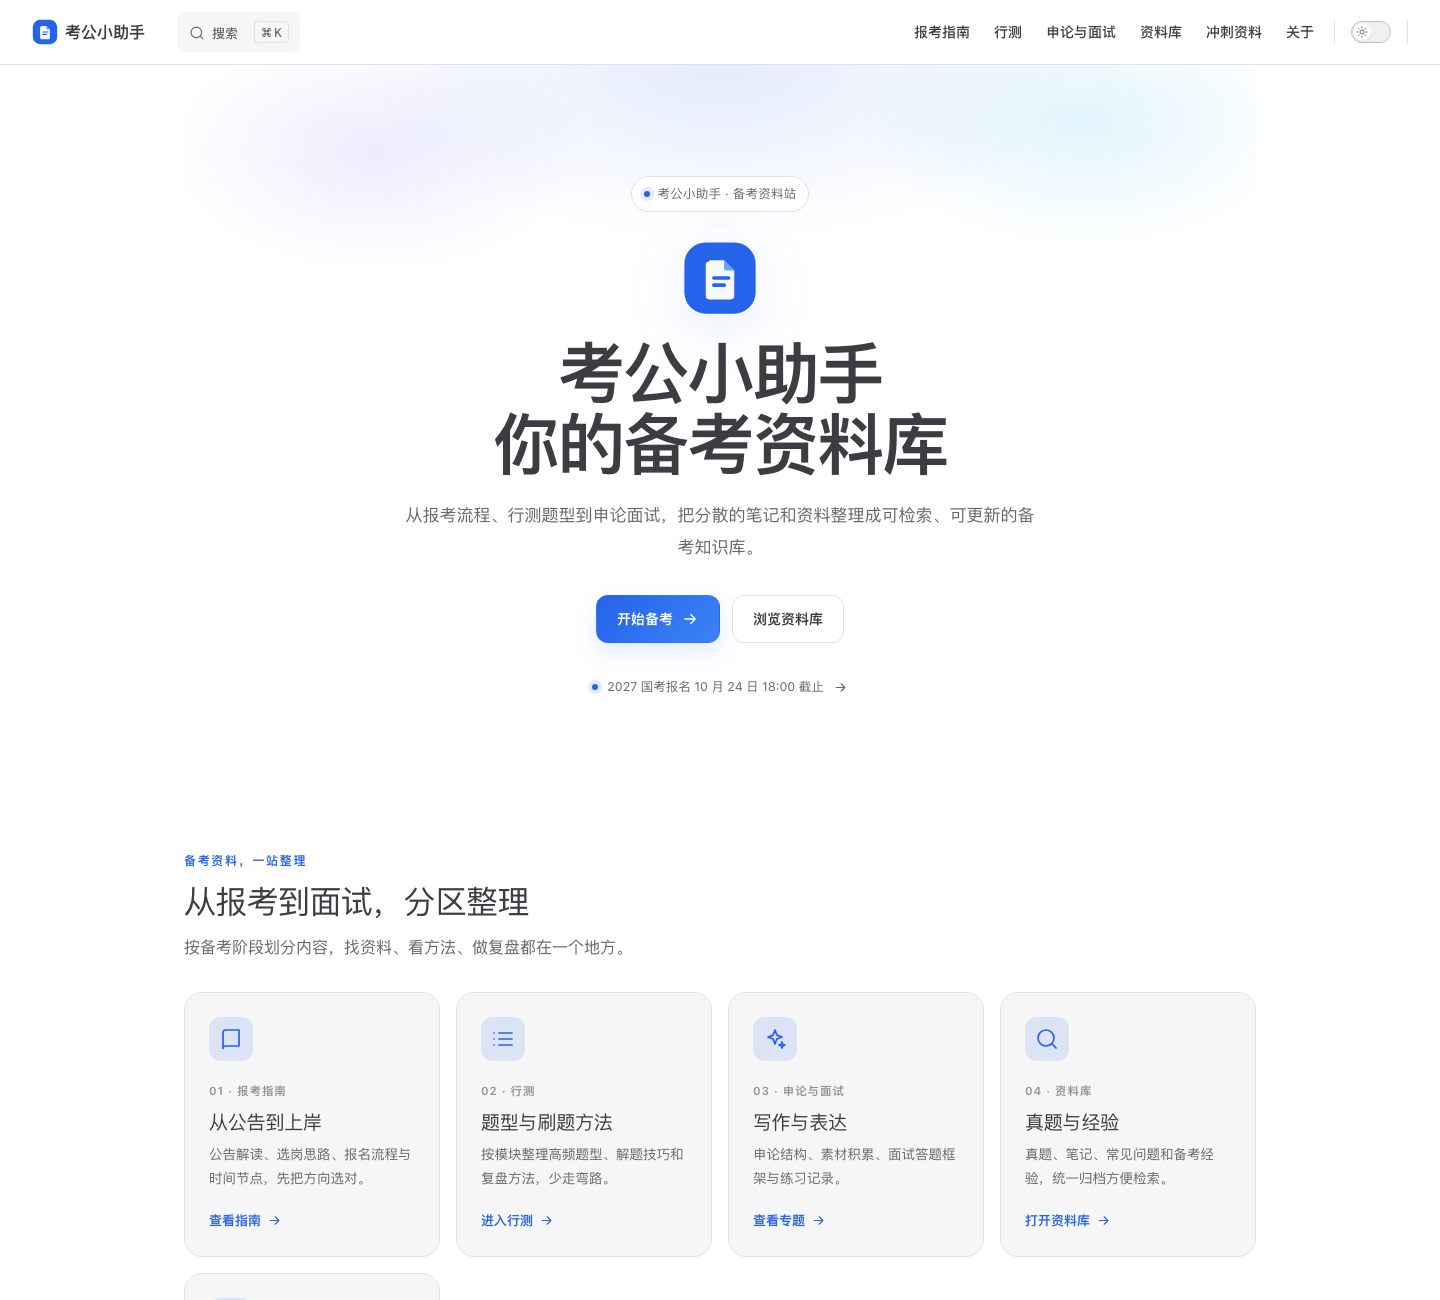
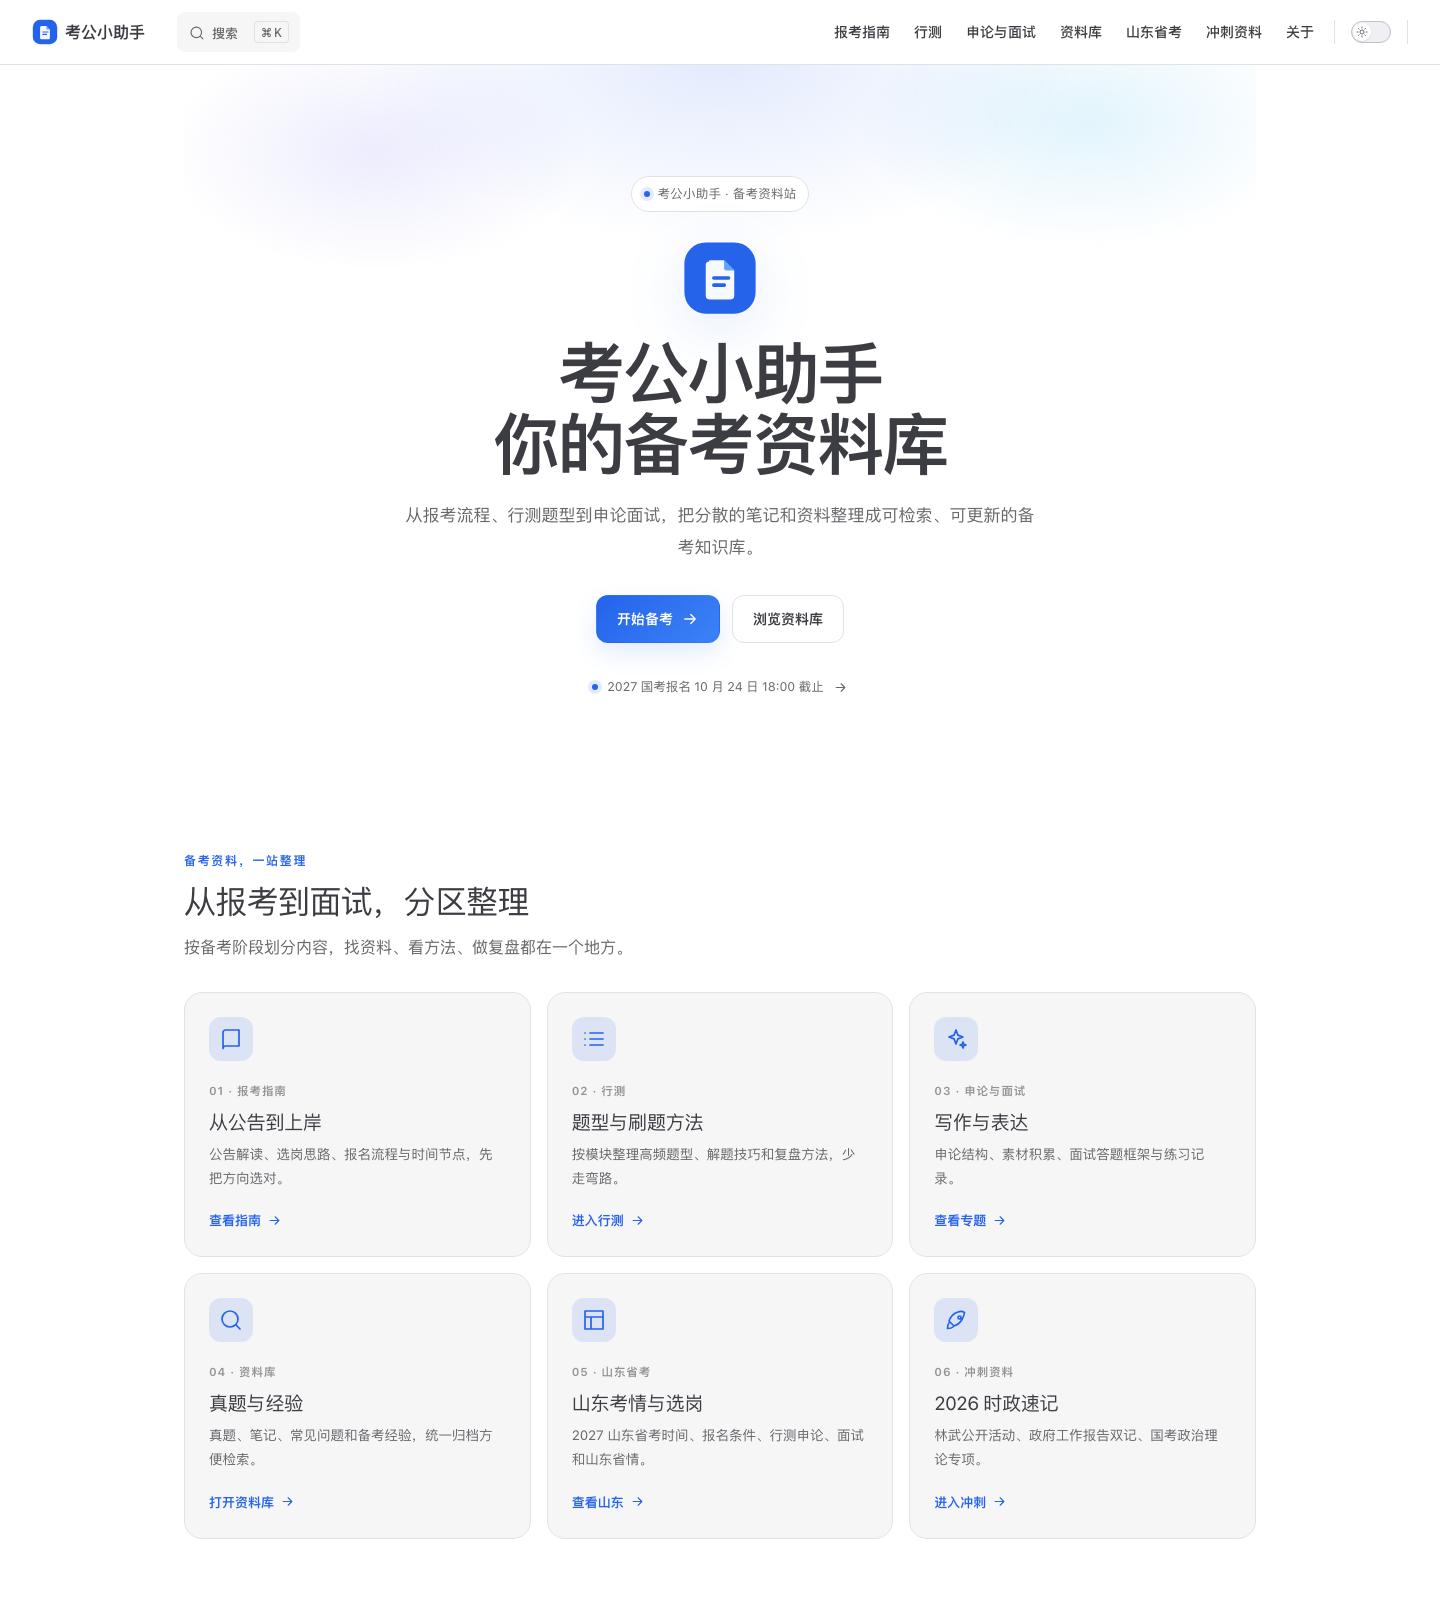
feat: add Shandong provincial exam section

diff --git a/docs/.vitepress/theme/components/Home.vue b/docs/.vitepress/theme/components/Home.vue
@@ -5,7 +5,7 @@ import sections from '../../sections.json'
 import Logo from './Logo.vue'
 import Icon from './Icon.vue'
 
-const modeIcons = ['book', 'list', 'sparkles', 'search', 'rocket']
+const modeIcons = ['book', 'list', 'sparkles', 'search', 'layout', 'rocket']
 const lines = home.title.split('\n')
 const sectionCount = sections.sections.length
 </script>
@@ -283,7 +283,7 @@ const sectionCount = sections.sections.length
 
 .fh-modes {
   display: grid;
-  grid-template-columns: repeat(auto-fit, minmax(210px, 1fr));
+  grid-template-columns: repeat(3, minmax(0, 1fr));
   gap: 16px;
 }
 

diff --git a/docs/.vitepress/home.ts b/docs/.vitepress/home.ts
@@ -53,7 +53,14 @@ export const home = {
       cta: '打开资料库'
     },
     {
-      tag: '05 · 冲刺资料',
+      tag: '05 · 山东省考',
+      title: '山东考情与选岗',
+      desc: '2027 山东省考时间、报名条件、行测申论、面试和山东省情。',
+      link: '/shandong/',
+      cta: '查看山东'
+    },
+    {
+      tag: '06 · 冲刺资料',
       title: '2026 时政速记',
       desc: '林武公开活动、政府工作报告双记、国考政治理论专项。',
       link: '/sprint/',

diff --git a/docs/shandong/baoming.md b/docs/shandong/baoming.md
@@ -1,0 +1,54 @@
+---
+title: 山东省考报考条件与报名流程
+description: 山东省考学历、年龄、基层经历、报名材料、缴费与准考证流程。
+order: 2
+group: 2027 山东省考
+tags: [山东省考, 报名]
+---
+
+# 山东省考报考条件与报名流程
+
+> 以下以 2026 年度山东省考官方公告为参考，2027 年以最新公告为准。
+
+## 基本条件
+
+- 具有中华人民共和国国籍
+- 年龄一般为 18 周岁以上、38 周岁以下；应届硕士、博士研究生可放宽到 43 周岁以下
+- 具有大学专科以上文化程度
+- 具备职位要求的专业、学历、学位、基层工作经历等条件
+- 符合回避规定和法律法规要求的其他条件
+
+山东省高级技工学校（技师学院）全日制毕业生，取得高级工、技师职业资格的，可分别按大专、本科学历报考符合条件且不限专业的职位。
+
+## 基层工作经历
+
+包括在县（市、区、旗）、乡（镇、街道）党政机关，村（社区）党组织或村（居）委会，以及各类企业、事业单位工作的经历。军队团及相当团以下单位工作、退役士兵服现役经历等也可视为基层经历。
+
+在校期间的社会实践、实习一般不算基层工作经历；具体口径以公告为准。
+
+## 报名流程
+
+```text
+查公告/职位表 → 网上提交报名 → 资格初审 → 缴费确认
+→ 打印报名登记表/准考证 → 笔试 → 成绩 → 面试资格复审
+```
+
+2026 年度关键规则：
+
+- 每人只能在全省范围选报 1 个职位。
+- 报名与考试使用的身份证必须一致。
+- 通过资格初审后不能再改报其他职位。
+- 考务费每人每科 50 元；困难群体可按规定减免。
+- 缴费人数达不到开考比例的职位，可能核减或取消，可按规定改报。
+
+## 材料准备
+
+- 身份证、学历学位证书（应届生按公告要求）
+- 报名登记表、诚信承诺书
+- 基层工作经历证明、社保记录（如职位要求）
+- 同意报考证明（在职人员按公告要求）
+- 职位要求的资格证书、党员证明等
+
+::: warning 不要拖到最后一天
+报名时间通常只有 4 天左右，资格初审和改报都需要时间。提前把职位表筛好，公告一开就报名。
+:::

diff --git a/docs/shandong/2027-shijian.md b/docs/shandong/2027-shijian.md
@@ -1,0 +1,45 @@
+---
+title: 2027 山东省考时间与备考节奏
+description: 参考 2026 山东省考时间，梳理 2027 公告、报名、笔试、成绩和面试的预计节奏。
+order: 1
+group: 2027 山东省考
+tags: [山东省考, 时间]
+date: 2026-10-23
+---
+
+# 2027 山东省考时间与备考节奏
+
+## 先看 2026 年的真实时间轴
+
+2026 年度山东省考（2025 年 11 月发布公告）：
+
+| 事项 | 2026 年度时间 |
+| --- | --- |
+| 公告发布 | 2025 年 11 月 5 日 |
+| 网上报名 | 2025 年 11 月 7 日 9:00 — 11 月 10 日 16:00 |
+| 资格初审 | 2025 年 11 月 7 日 11:00 — 11 月 11 日 16:00 |
+| 缴费确认 | 2025 年 11 月 7 日 11:00 — 11 月 12 日 16:00 |
+| 打印准考证 | 2025 年 12 月 2 日 9:00 — 12 月 7 日 14:30 |
+| 公共科目笔试 | 2025 年 12 月 7 日 |
+| 笔试成绩 | 2026 年 1 月中下旬 |
+
+## 2027 年预计节奏
+
+按近两年规律，2027 山东省考大概率仍在 **2026 年 11 月发布公告、12 月笔试**，但具体日期以官方为准。
+
+- **现在—10 月底**：行测、申论打基础，关注“灯塔-党建在线”
+- **11 月公告后**：筛岗、报名、缴费，确认考点
+- **11 月下旬—12 月初**：套卷模考、时政冲刺
+- **12 月笔试**：行测上午、申论下午
+- **2027 年 1 月**：查成绩，准备面试
+- **2027 年 2—3 月**：面试、体检、考察
+
+## 和国考怎么衔接
+
+- 国考 11 月 29 日笔试，山东省考预计 12 月，两者时间接近。
+- 行测、申论基础通用，但山东省考有自己的命题风格和申论 A/B 分类。
+- 国考后不要完全停笔，保持每天行测 + 申论手感，转做山东真题。
+
+::: tip 关注官方渠道
+公告、职位表、报名入口、成绩查询都以“灯塔-党建在线”网络平台和手机 APP 的“录用公务员”专栏为准。
+:::

diff --git a/docs/shandong/bishi.md b/docs/shandong/bishi.md
@@ -1,0 +1,60 @@
+---
+title: 山东省考笔试内容与试卷特点
+description: 山东省考行测、申论 A/B 类、专业科目、成绩计算与备考重点。
+order: 3
+group: 考试内容
+tags: [山东省考, 行测, 申论]
+---
+
+# 山东省考笔试内容与试卷特点
+
+## 科目与时间
+
+- 上午 9:00—11:00：行政职业能力测验
+- 下午 14:00—17:00：申论
+- 公安执法勤务等职位：另有专业科目笔试
+
+行测、申论满分均为 100 分。
+
+## 申论 A/B 类
+
+2026 年度山东省考：
+
+- **A 类**：省级机关职位
+- **B 类**：省属基层单位职位
+
+2026 年 A 卷主题涉及协同发展、产业升级、高质量发展等；B 卷更偏基层治理和具体工作场景。备考时按目标职位选对应试卷。
+
+## 行测特点
+
+- 题型与国考接近：常识、言语、数量、判断、资料分析。
+- 山东省考常识/政治理论部分会涉及总书记对山东的讲话、山东年度部署。
+- 资料分析、判断推理仍是提分重点。
+- 具体题量以当年试卷为准，平时按 120 分钟整套训练。
+
+## 成绩计算
+
+无专业科目：
+
+```text
+笔试成绩 = 行测 × 50% + 申论 × 50%
+综合成绩 = 笔试 × 40% + 面试 × 60%
+```
+
+有专业科目：
+
+```text
+笔试成绩 = 行测 × 40% + 申论 × 30% + 专业科目 × 30%
+综合成绩 = 笔试 × 40% + 面试 × 40% + 专业测试 × 20%
+```
+
+## 备考重点
+
+1. 行测先保住资料、判断、言语的正确率，数量按基础取舍。
+2. 申论重点练山东真题，注意 A/B 卷差异。
+3. 政治理论/省情结合山东政府工作报告、林武公开活动等时政速记。
+4. 考前至少完整模考 3—5 套山东卷。
+
+::: tip 山东特色
+山东省考面试权重高（无专业测试时面试占 60%），笔试过线后不要松懈，面试要提前准备。
+:::

diff --git a/docs/shandong/mianshi.md b/docs/shandong/mianshi.md
@@ -1,0 +1,52 @@
+---
+title: 山东省考面试形式与成绩计算
+description: 山东省考结构化面试、资格复审、综合成绩和面试准备。
+order: 4
+group: 考试内容
+tags: [山东省考, 面试]
+---
+
+# 山东省考面试形式与成绩计算
+
+## 面试形式
+
+山东省考面试以**结构化面试**为主，部分招录机关会组织专业能力测试。公告明确采取结构化面试等多种形式，考官和考生双抽签，面试成绩百分制。
+
+## 进面比例
+
+一般按职位录用计划的 **3 倍**，从达到笔试合格分数线的人员中按笔试成绩从高到低确定面试人选；部分职位可能不同，以公告和职位表为准。
+
+## 综合成绩
+
+未组织专业能力测试：
+
+```text
+综合成绩 = 笔试成绩 × 40% + 面试成绩 × 60%
+```
+
+组织专业能力测试：
+
+```text
+综合成绩 = 笔试 × 40% + 面试 × 40% + 专业测试 × 20%
+```
+
+面试成绩达到 60 分以上，方可确定为体检和考察人选。面试形不成竞争的职位，还需达到所在考官小组使用同一题本人员的平均分。
+
+## 面试流程
+
+```text
+资格复审 → 签到抽签 → 候考 → 进场答题 → 退场
+→ 计分 → 公布成绩 → 体检/考察
+```
+
+## 备考建议
+
+1. **先练审题**：判断题型、身份、任务、矛盾。
+2. **再搭框架**：综合分析、组织管理、人际、应急、岗位匹配各准备一套结构。
+3. **开口练**：录音/录像，控制语速、口头禅、眼神和小动作。
+4. **结合山东**：准备山东时政、基层治理、乡村振兴、经略海洋等本省素材。
+5. **模拟考场**：找人当考官，严格限时。
+
+::: warning 面试占比高
+山东省考无专业测试时面试占 60%，笔试分差容易被逆袭。进面后要把面试当成主战场。
+:::

diff --git a/docs/shandong/xuangang.md b/docs/shandong/xuangang.md
@@ -1,0 +1,45 @@
+---
+title: 山东省考选岗与省情
+description: 山东省考选岗思路、岗位限制、服务期和山东省情素材。
+order: 5
+group: 报考策略
+tags: [山东省考, 选岗, 省情]
+---
+
+# 山东省考选岗与省情
+
+## 选岗步骤
+
+1. **先筛资格**：专业、学历、学位、政治面貌、基层经历、户籍/生源限制。
+2. **再看地点**：省直、市直、县直、乡镇，是否接受异地和基层。
+3. **比较竞争**：招录人数、限制条件、往年进面分、报名人数。
+4. **确认服务期**：乡镇和艰苦边远岗位常有最低服务年限要求。
+
+山东省考职位分省级机关、省属基层单位、市及以下机关等，申论试卷也会按层级分类。选岗时同时确认职位对应的试卷类别。
+
+## 山东岗位特点
+
+- 省会、计划单列市和发达地市竞争通常更激烈。
+- 乡镇、街道岗位数量多，但服务期和实际工作强度要提前了解。
+- 公安、监狱、戒毒等岗位有体能、体检特殊要求。
+- 专业限制越具体的岗位，符合人数通常越少。
+
+## 山东省情素材
+
+面试和申论可以结合以下山东关键词：
+
+- 走在前、挑大梁
+- 绿色低碳高质量发展先行区
+- 高水平对外开放新高地
+- 乡村振兴齐鲁样板
+- 经略海洋、海洋强省
+- 黄河流域生态保护和高质量发展
+- 十大工程、十个新优势
+
+更多时政细节见 [2026 冲刺一本通](/sprint/)。
+
+## 建议
+
+- 不要只看“招录人数”，先看自己是否符合所有条件。
+- 不要为了上岸选完全不能接受的地区；服务期内调动很难。
+- 报名前给招录机关打电话确认专业、经历等模糊条件。

diff --git a/docs/shandong/index.md b/docs/shandong/index.md
@@ -1,0 +1,35 @@
+---
+title: 山东省考信息
+description: 2027 山东省考时间预测、报考条件、笔试面试、选岗与备考要点。
+order: 0
+group: 总览
+tags: [山东省考]
+---
+
+# 山东省考信息
+
+山东省考是山东省各级机关考试录用公务员的简称，由山东省公务员局统一组织，报名和公告发布在“灯塔-党建在线”平台。
+
+## 核心信息
+
+| 项目 | 说明 |
+| --- | --- |
+| 公告/报名入口 | [灯塔-党建在线](https://www.dtdjzx.gov.cn/) |
+| 笔试科目 | 行政职业能力测验 + 申论（部分职位加专业科目） |
+| 申论分类 | A 类（省级机关）、B 类（省属基层单位） |
+| 面试形式 | 以结构化面试为主，部分职位有专业能力测试 |
+| 综合成绩 | 无专业测试：笔试 40% + 面试 60% |
+
+## 本章内容
+
+- [2027 山东省考时间与备考节奏](/shandong/2027-shijian)
+- [报考条件与报名流程](/shandong/baoming)
+- [笔试内容与试卷特点](/shandong/bishi)
+- [面试形式与成绩计算](/shandong/mianshi)
+- [选岗与山东省情](/shandong/xuangang)
+
+> 参考：[2026 年度山东省省级机关及其直属机构考试录用公务员公告](http://m.shandong.gov.cn/art/2025/11/5/art_94237_10357496.html)
+
+::: warning 2027 公告尚未发布
+截至 2026 年 10 月 23 日，2027 年度山东省考公告尚未发布。本章时间节点参考 2026 年度官方公告整理，**2027 年具体安排以“灯塔-党建在线”最新公告为准**。
+:::

diff --git a/README.md b/README.md
@@ -1,6 +1,6 @@
 # 考公小助手
 
-公务员考试备考资料站：报考指南、行测、申论与面试、资料库、2026 冲刺速记。
+公务员考试备考资料站：报考指南、行测、申论与面试、资料库、山东省考信息、2026 冲刺速记。
 
 **在线预览：<https://kaogong-assistant.pages.dev/>**
 
@@ -16,6 +16,7 @@
 | 行测 | `docs/xingce/` | 常识、言语、数量、判断、资料分析 |
 | 申论与面试 | `docs/shenlun/` | 申论题型、素材、面试表达 |
 | 资料库 | `docs/kb/` | 真题、笔记、经验、FAQ |
+| 山东省考信息 | `docs/shandong/` | 2027 山东省考时间、报名、笔试面试、选岗与省情 |
 | 冲刺资料 | `docs/sprint/` | 2026 时政速记、政府工作报告对照、政治理论专项 |
 
 ## 本地开发
@@ -56,6 +57,7 @@ docs/
 - [x] 2027 国考报考指南
 - [x] 行测、申论、面试基础内容
 - [x] 2026 冲刺一本通三大板块
+- [x] 山东省考信息专区
 - [ ] 补充更多真题和本地考情
 - [ ] 替换 `docs/public/logo.svg`
 - [ ] 确定正式域名并接入部署

diff --git a/docs/about.md b/docs/about.md
@@ -14,6 +14,7 @@ tags: [关于]
 - **报考指南**：2027 国考公告、报名流程、选岗、应届生与基层经历、备考规划
 - **行测**：五大模块的题型、方法和刷题策略
 - **申论与面试**：申论题型与结构、素材积累、面试形式与答题框架
+- **山东省考**：2027 山考时间、报名条件、笔试面试、选岗与省情
 - **资料库**：官方资料入口、体检政审、常见问题、术语表
 
 ## 内容来源

diff --git a/docs/guide/index.md b/docs/guide/index.md
@@ -18,6 +18,7 @@ tags: [报考]
 - [国考、省考与联考的区别](/guide/guokao-shengkao)
 - [应届生、基层工作经历与年龄](/guide/yingjiesheng-jiceng)
 - [备考时间规划](/guide/shijian-anpai)
+- [山东省考信息](/shandong/)
 
 ::: tip 以官方公告为准
 考试政策、职位表和分数线每年都会调整。本章以国家公务员局 2027 年度公告为基础整理，最终以官方专题网站和当年公告为准。

diff --git a/docs/guide/guokao-shengkao.md b/docs/guide/guokao-shengkao.md
@@ -28,6 +28,10 @@ tags: [国考, 省考]
 国考、省考都考行测和申论，但题量、难度、申论主题和面试形式有差异。先打共同基础，再按目标考试做真题。
 :::
 
+## 山东省考
+
+山东考生可以继续看 [山东省考信息](/shandong/)：时间规律、报名条件、笔试面试和选岗。
+
 ## 注意
 
 - 省考时间、报名条件、户籍限制因省而异，**必须以各省公告为准**。
